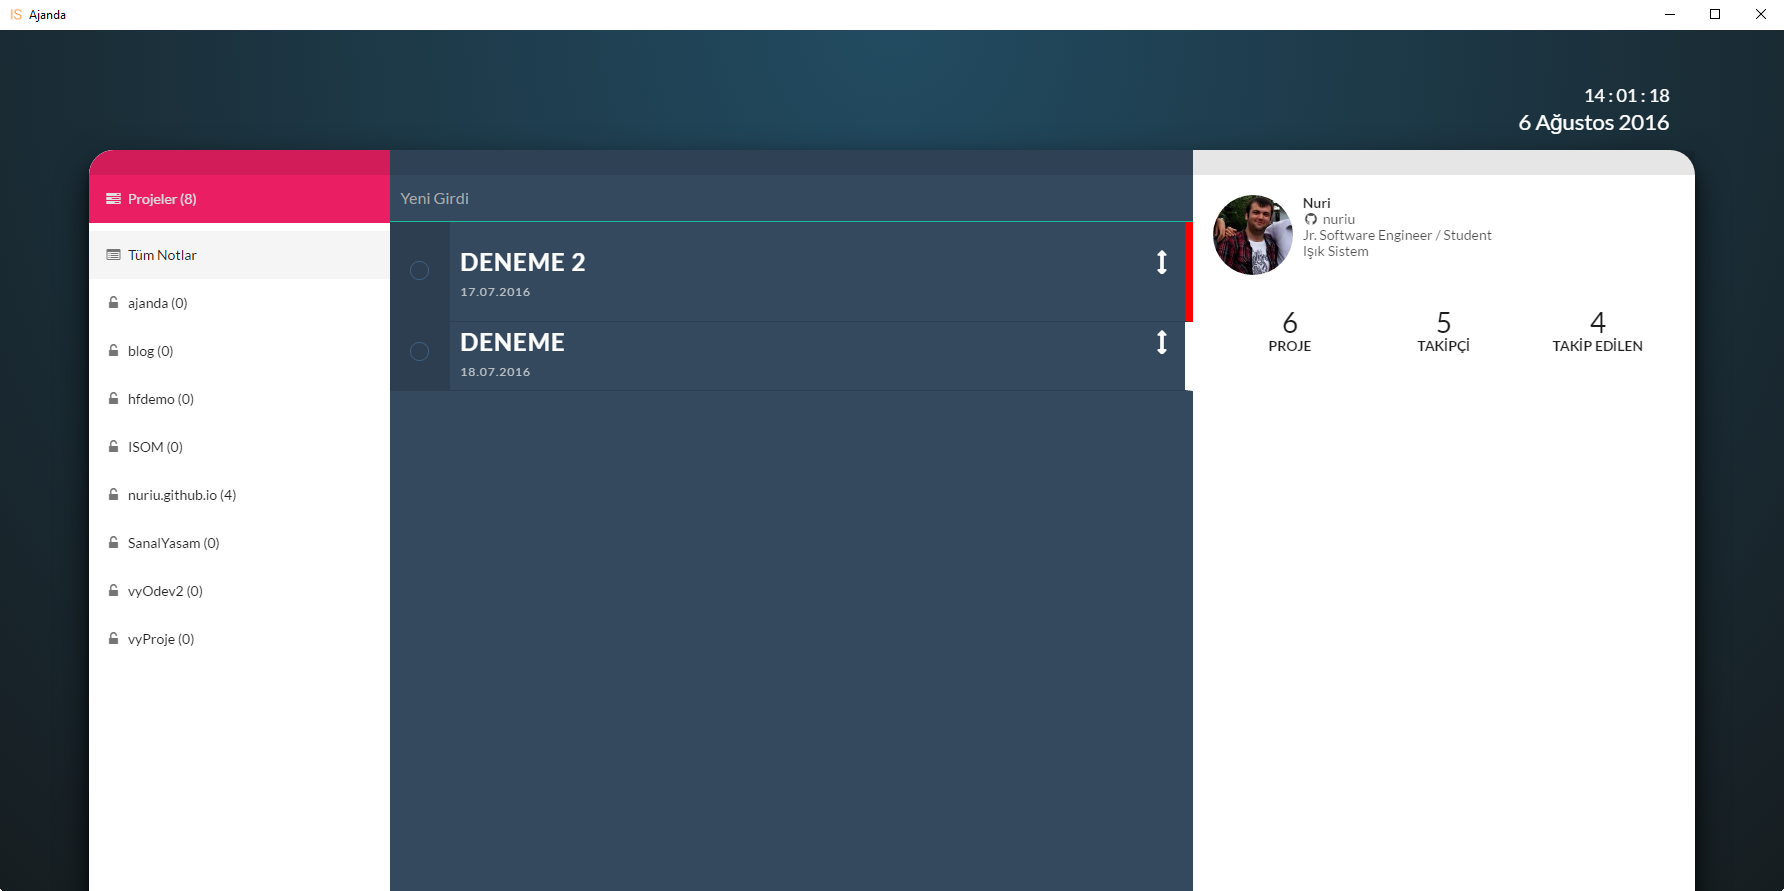
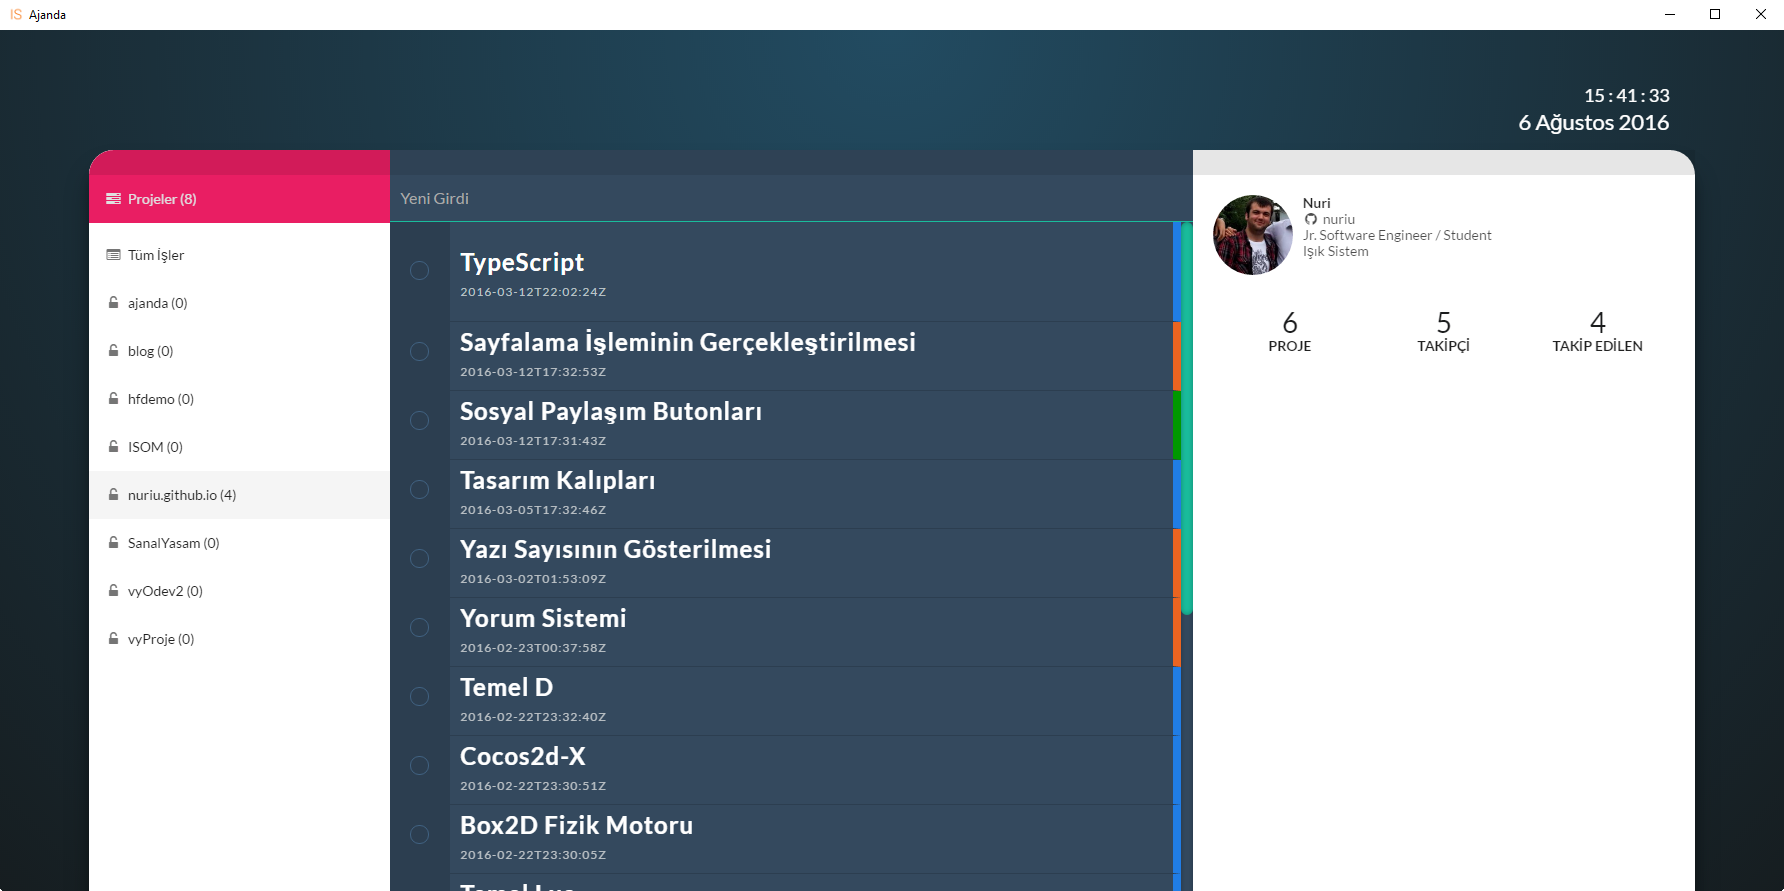
Aktif projenin değiştirilmesi geliştirildi.

diff --git a/app/src/github.ts b/app/src/github.ts
@@ -14,9 +14,12 @@ var KULLANICI: any;
 var PROJELER: any;
 var fb2 = fs.readFileSync(`${__dirname}/db/id.ajanda`);
 var db2 = new SQL.Database(fb2);
+var aktifProje: string;
 
 $(document).ready(function () {
-    document.getElementById("projeListesi").innerHTML = "<li class='active'><a href='#'><i class='browser icon'></i> Tüm İşler</a></li>";
+    document.getElementById("projeListesi").innerHTML = "<li class='active' id='tumIsler' onclick='aktifProjeyiDegistir(this.id)'><a href='#'><i class='browser icon'></i> Tüm İşler</a></li>";
+
+    aktifProje = "tumIsler";
 
     if (!window.localStorage.getItem("githubtoken")) {
         gitHubGirisYap();
@@ -116,7 +119,7 @@ function bilgileriYazdir() {
         sort: "full_name",
         direction: "asc"
     }, function (hata: string, icerik: Object) {
-        PROJELER = icerik;        
+        PROJELER = icerik;
         gitHubProjeListesiniYazdir();
     });
 
@@ -142,12 +145,50 @@ function gitHubProfilBilgileriniYazdir() {
         </div>";
     }
 }
+
 function gitHubProjeListesiniYazdir() {
     if (PROJELER) {
         document.getElementById("projeListesiBaslik").innerHTML = "<i class='tasks icon'></i> Projeler (" + PROJELER.length + ")";
         for (var i = 0; i < PROJELER.length; i++) {
-            document.getElementById("projeListesi").innerHTML += "<li><a href='#'> <i class='unlock alternate icon'></i> " 
-            + PROJELER[i].name + " (" + PROJELER[i].open_issues_count + ")</a></li>";
+            document.getElementById("projeListesi").innerHTML += "<li id='" + PROJELER[i].name + "' onclick='aktifProjeyiDegistir(this.id)'><a href='#'> <i class='unlock alternate icon'></i> "
+                + PROJELER[i].name + " (" + PROJELER[i].open_issues_count + ")</a></li>";
         }
     }
+}
+
+function aktifProjeyiDegistir(projeAdi: string) {
+    if (aktifProje == projeAdi) return;
+    document.getElementById(aktifProje).className = null;
+    document.getElementById(projeAdi).className = "active";
+    aktifProje = projeAdi;
+
+    if (projeAdi != "tumIsler") {
+        projeninIsleriniYazdir();
+    }
+}
+
+function projeninIsleriniYazdir() {
+    let ifade: string = "<li>";
+    
+    gh.getIssues(KULLANICI.login, aktifProje).listIssues({
+        state: "all"
+    }, function (hata: string, isler: any) {
+        for (var i = 0; i < isler.length; i++) {
+            if (isler[i].state == "open") {
+                ifade += "<input id='" + isler[i].id + "' type='checkbox' />";
+            } else {
+                ifade += "<input id='" + isler[i].id + "' type='checkbox' checked />";
+            }
+            if (isler[i].labels.length > 0) {
+                ifade += "<label for='" + isler[i].id + "' style='border-right: 8px solid #" + isler[i].labels[0].color + ";'>";
+            } else {
+                ifade += "<label for='" + isler[i].id + "'>";
+            }
+
+            ifade += "\
+            <h2>" + isler[i].title + "<span>" + isler[i].created_at + "</span></h2>\
+            </label></li>";
+        }
+        document.getElementById("siralanabilir").innerHTML = ifade;
+    });
 }

diff --git a/app/ana.html b/app/ana.html
@@ -14,9 +14,7 @@
 
     <!-- JS -->
     <script src="../node_modules/jquery/dist/jquery.min.js" onload="window.$ = window.jQuery = module.exports;"></script>
-    <script src="../node_modules/components-jqueryui/jquery-ui.min.js"></script>
     <script src="../semantic/dist/semantic.min.js"></script>
-    <script src="js/liste.js"></script>
     <script src="js/akis.js"></script>
     <script src="js/isler.js"></script>
     <script src="js/github.js"></script>
@@ -33,7 +31,7 @@
                     <a class="sidebar-brand" href="#" id="projeListesiBaslik"><i class="tasks icon"></i> Projeler</a>
                 </div>
                 <ul class="nav sidebar-nav" id="projeListesi">
-
+                    <li><h2>Yükleniyor...</h2></li>
                 </ul>
             </aside>
         </div>
@@ -65,7 +63,9 @@
                     <li id="saniye">00</li>
                 </ul>
             </div>
-            <div id="github"> </div>
+            <div id="github">
+                <h2>Yükleniyor...</h2>
+            </div>
         </div>
     </div>
 </body>

diff --git a/app/css/liste.css b/app/css/liste.css
@@ -24,24 +24,6 @@
   display: none;
 }
 
-.isler .siralanabilir-yeni-yer-metni {
-  border: 1px dotted #fff;
-  padding: 30px 20px;
-  position: relative;
-  box-shadow: 10px 10px 10px rgba(0,0,0,0.75), 10px 10px 10px rgba(0,0,0,0.5);
-}
-
-.isler .siralanabilir-yeni-yer-metni:after {
-  content: "Yeni yerim burası olacak!";
-  position: absolute;
-  top: 30%;
-  left: 0;
-  right: 0;
-  margin: auto;
-  color: #fff;
-  text-align: center;
-}
-
 .isler label {
   background: #34495E;
   height: 69px;
@@ -50,8 +32,6 @@
   border-bottom: 1px solid #2C3E50;
   color: #fff;
   text-transform: capitalize;
-  font-weight: 900;
-  font-size: 11px;
   letter-spacing: 1px;
   cursor: pointer;
   transition: all 0.7s ease;

diff --git a/app/src/isler.ts b/app/src/isler.ts
@@ -34,7 +34,7 @@ function notlariListele() {
         }
 
         ifade +="\
-        <h2>" + eleman[1] + "<i class='resize vertical icon' style='float:right;'></i><span>" + eleman[2] + "</span></h2>\
+        <h2>" + eleman[1] + "<span>" + eleman[2] + "</span></h2>\
         </label></li>";
 
         document.getElementById("siralanabilir").innerHTML += ifade;

diff --git a/README.md b/README.md
@@ -9,7 +9,6 @@ Kullanılan Teknolojiler
 - Electron
 - TypeScript
 - jQuery
-- jQuery-UI
 - Semantic UI
 - sql.js
 - GitHub API
